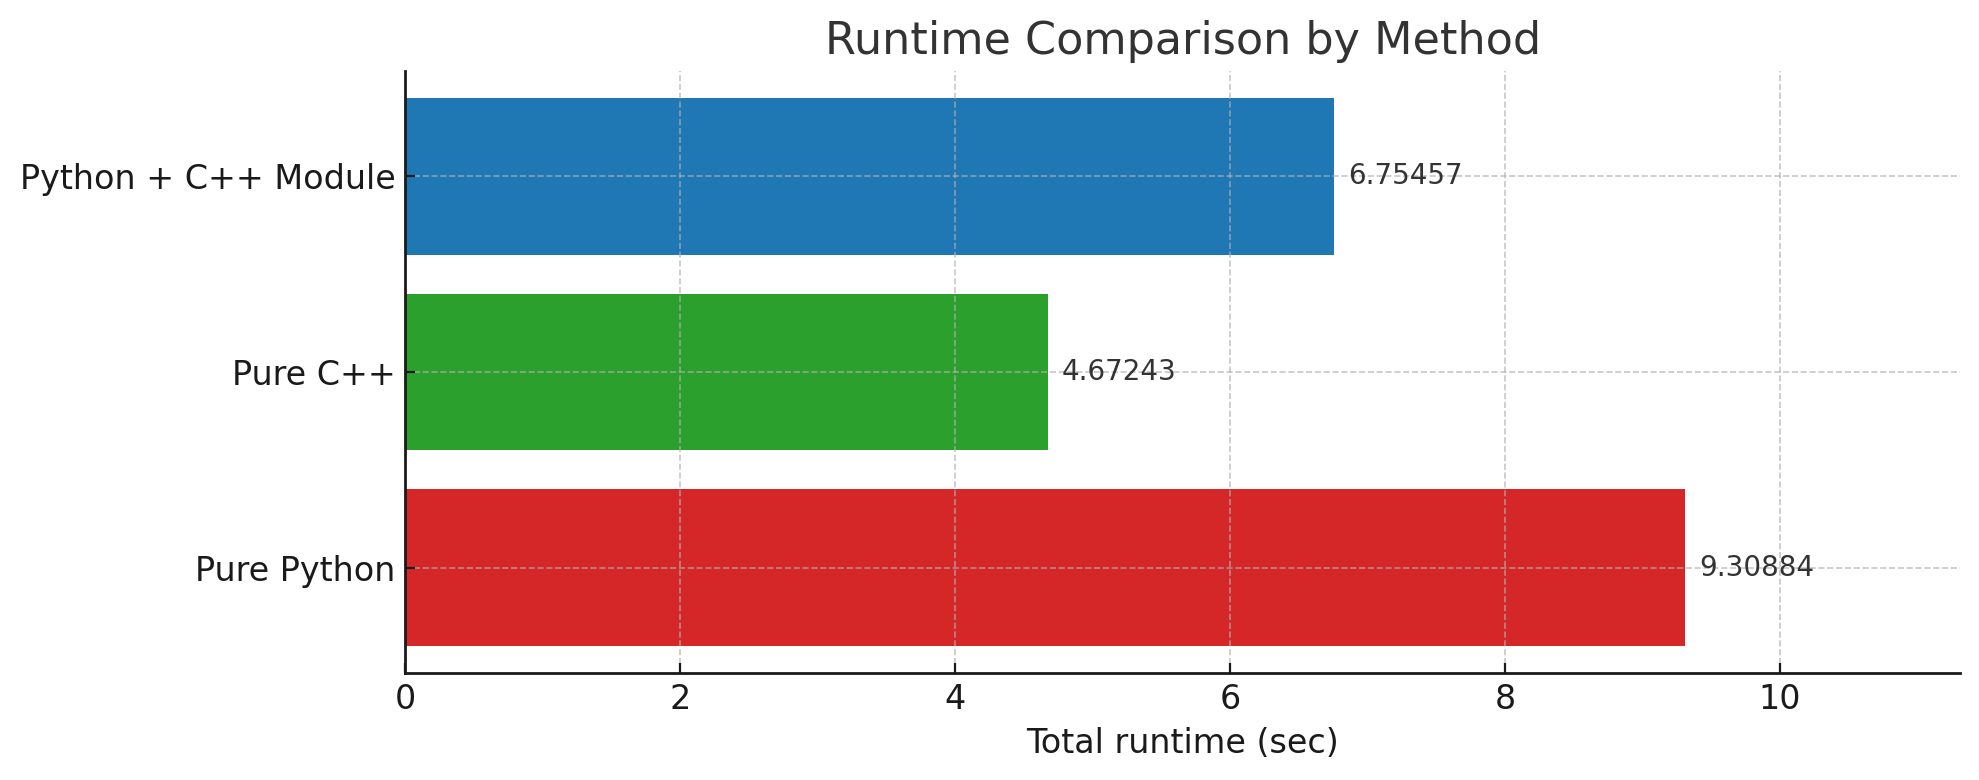
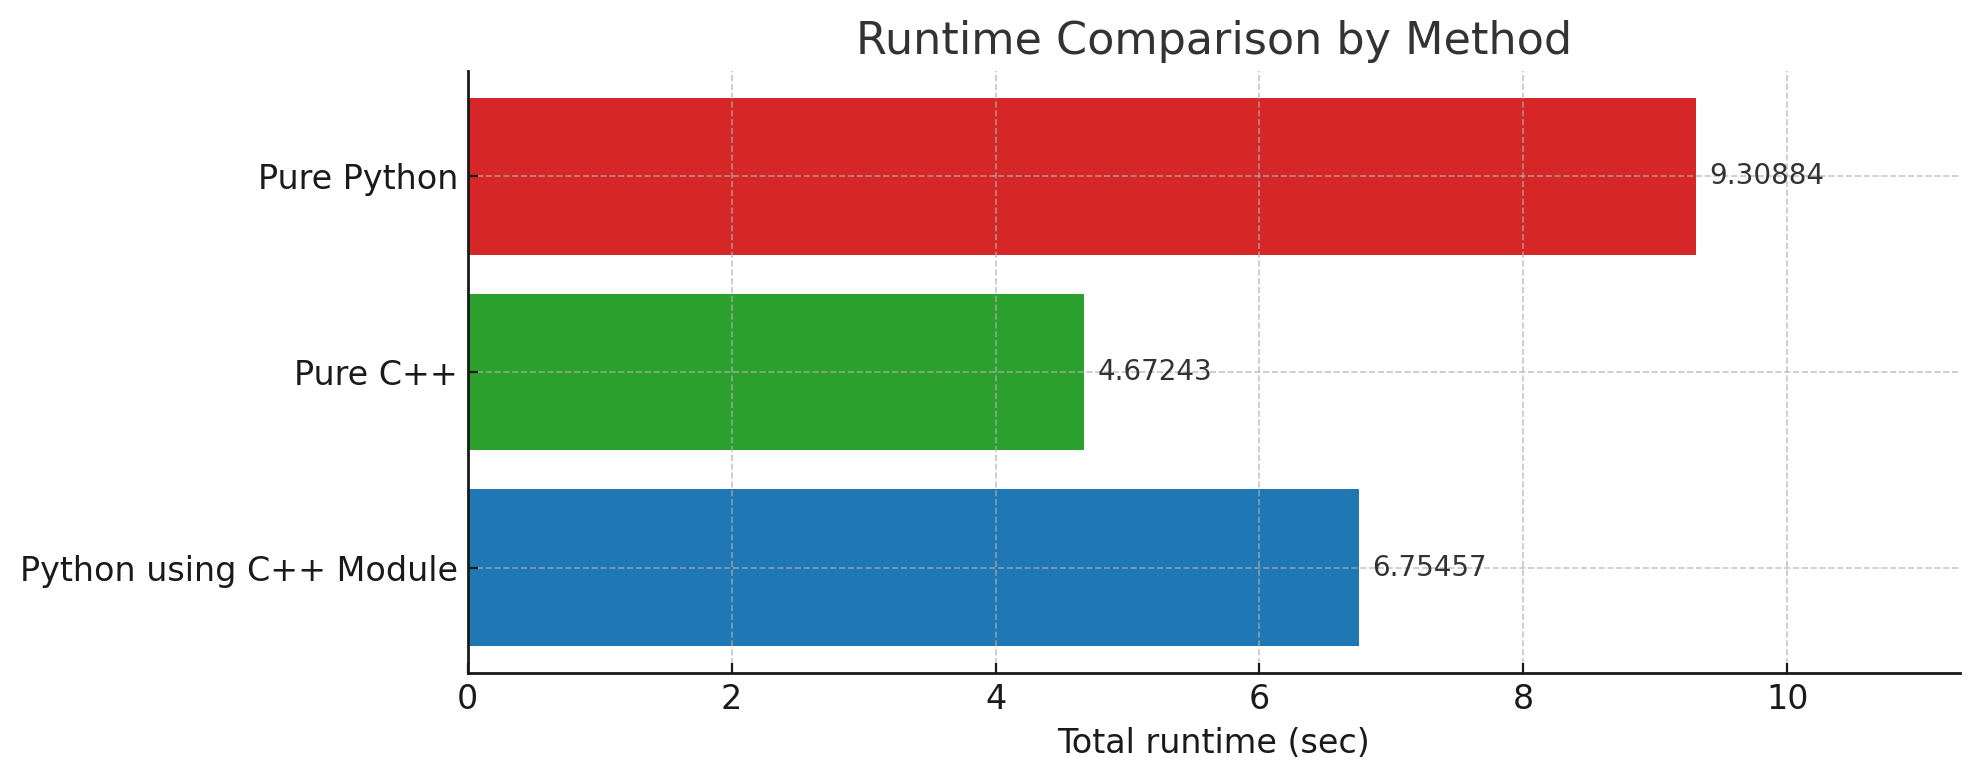
change image

diff --git a/week1/README.md b/week1/README.md
@@ -174,7 +174,7 @@ setup(
 
 2. Pure C++
 
-3. Python + C++ Module
+3. Python using C++ Module
 
 To compare these, I created random 100 meaningful words with these three
 files([random_words.txt](./runtime_calculator/random_words.txt)), and calculate the toatl runtime.
